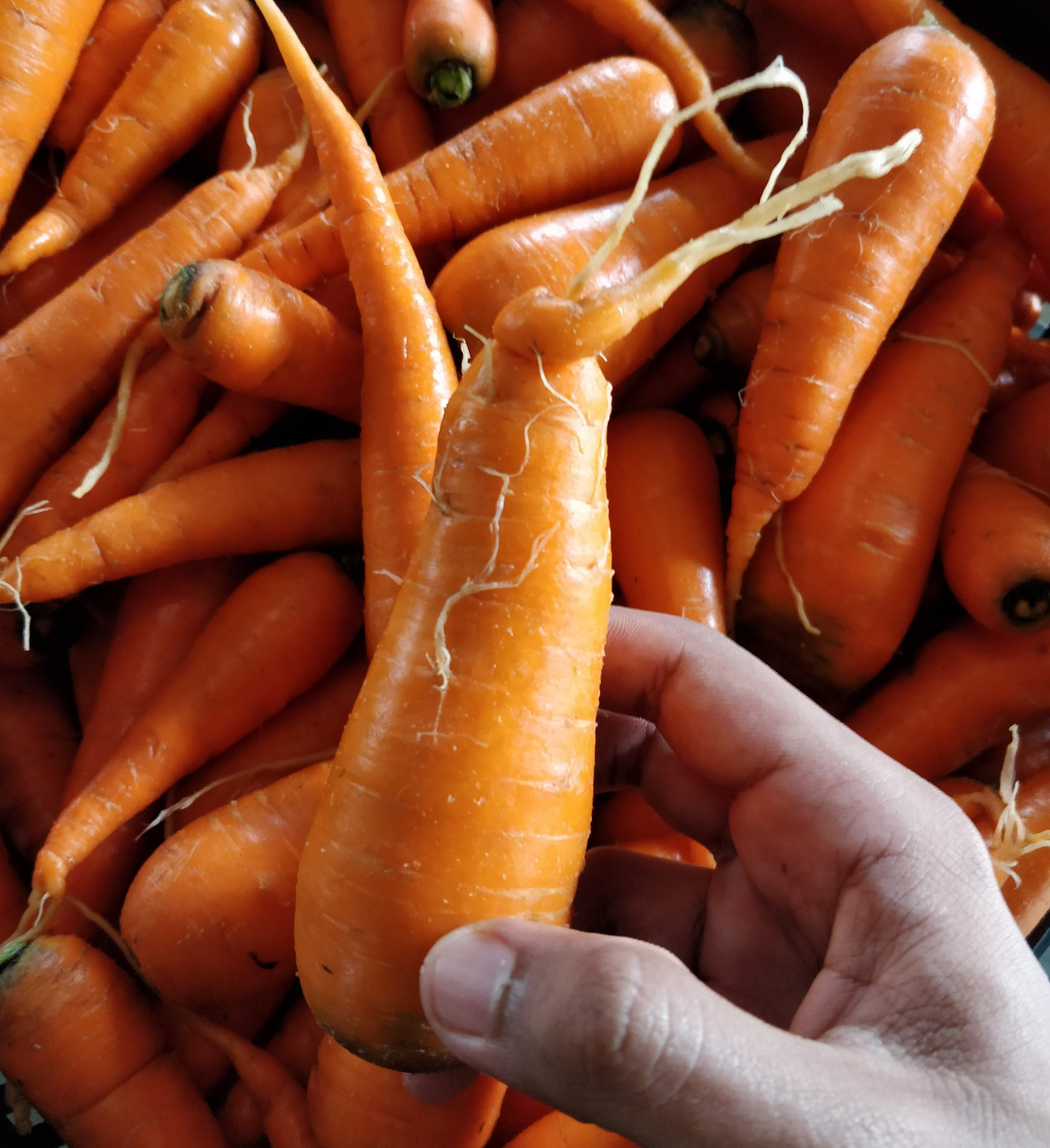
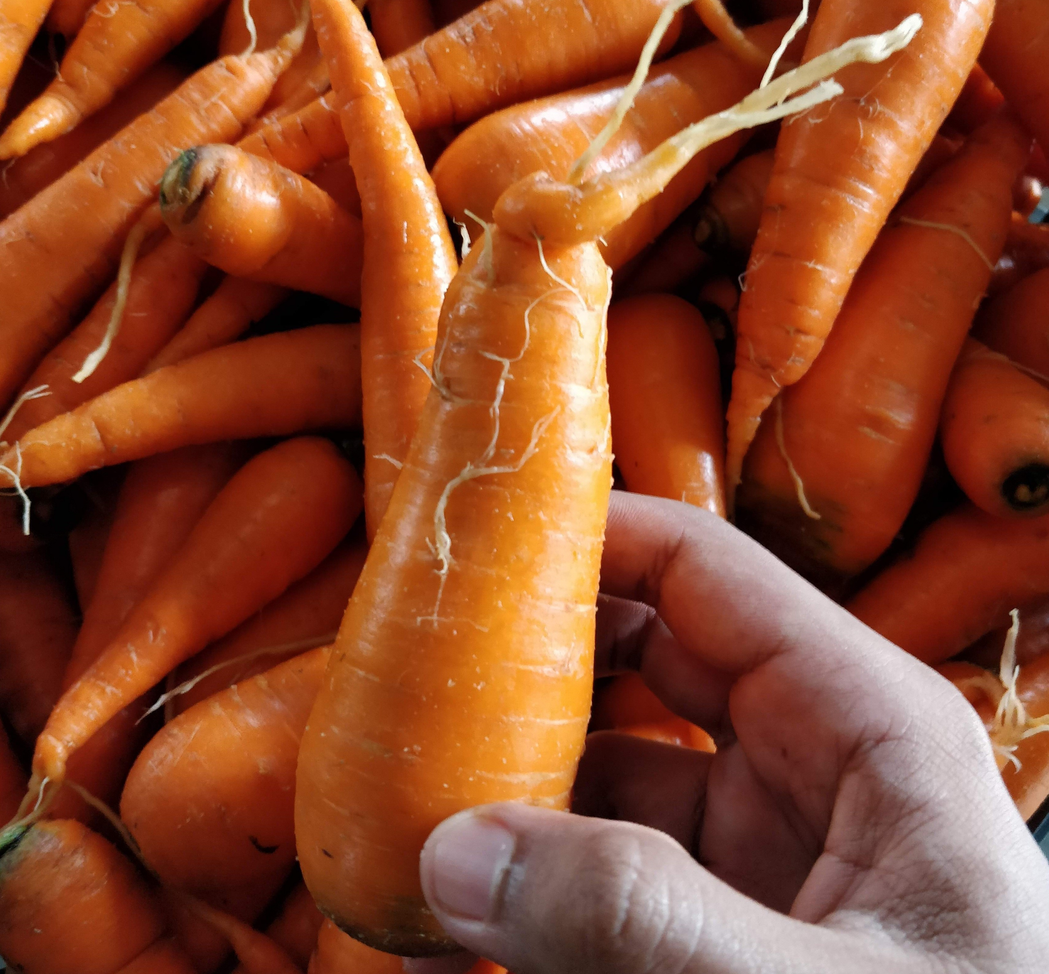
UP pictures rotated

diff --git a/index.html b/index.html
@@ -157,10 +157,10 @@
 					</a>
 				</div>
 				<div class="col-lg-4 col-md-4 col-sm-6">
-					<a href="images/ugcucumber.jpg" class="fh5co-card-item image-popup">
+					<a href="images/ug1cucumber.jpg" class="fh5co-card-item image-popup">
 						<figure>
 							<div class="overlay"><i class="ti-plus"></i></div>
-							<img src="images/ugcucumber.jpg" alt="Image" class="img-responsive">
+							<img src="images/ug1cucumber.jpg" style="transform: rotate(180deg);" alt="Image" class="img-responsive rotateimg90">
 						</figure>
 						<div class="fh5co-text">
 							<h2>2</h2>
@@ -197,10 +197,10 @@
 
 
 				<div class="col-lg-4 col-md-4 col-sm-6">
-					<a href="images/ugcarrot.jpg" class="fh5co-card-item image-popup">
+					<a href="images/ugpepper.jpg" class="fh5co-card-item image-popup">
 						<figure>
 							<div class="overlay"><i class="ti-plus"></i></div>
-							<img src="images/ugcarrot.jpg" alt="Image" class="img-responsive">
+							<img src="images/ugpepper.jpg" alt="Image" class="img-responsive">
 						</figure>
 						<div class="fh5co-text">
 							<h2>4</h2>

diff --git a/css/style.css b/css/style.css
@@ -108,6 +108,13 @@ h1, h2, h3, h4, h5, h6, figure {
     padding: 20px 0;
   }
 }
+/* .rotateimg90 {
+  -webkit-transform:rotate(90deg);
+  -moz-transform: rotate(90deg);
+  -ms-transform: rotate(90deg);
+  -o-transform: rotate(90deg);
+  transform: rotate(90deg);
+} */
 .gtco-nav #gtco-logo {
   font-size: 20px;
   margin: 0;

diff --git a/css/bootstrap.css b/css/bootstrap.css
@@ -1436,6 +1436,13 @@ img {
   max-width: 100%;
   height: auto;
 }
+/* .rotateimg90 {
+  -webkit-transform:rotate(180deg);
+  -moz-transform: rotate(180deg);
+  -ms-transform: rotate(180deg);
+  -o-transform: rotate(180deg);
+  transform: rotate(180deg); */
+/* } */
 
 .img-rounded {
   border-radius: 6px;
